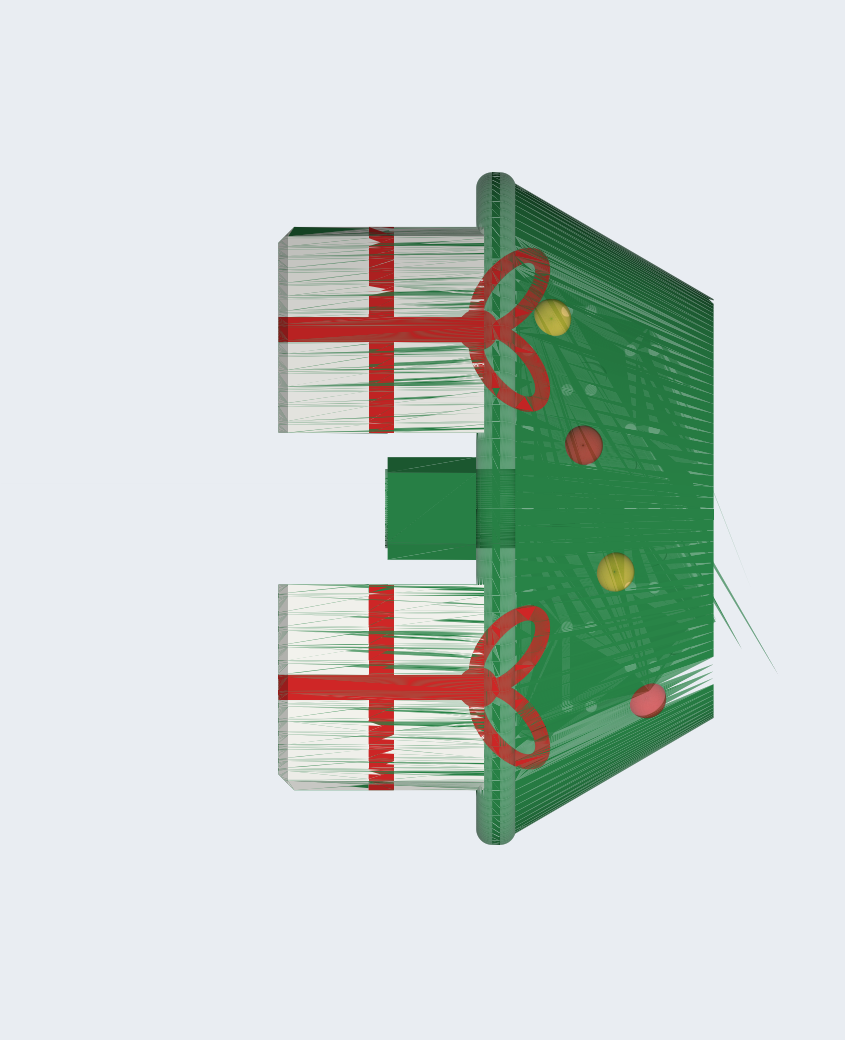
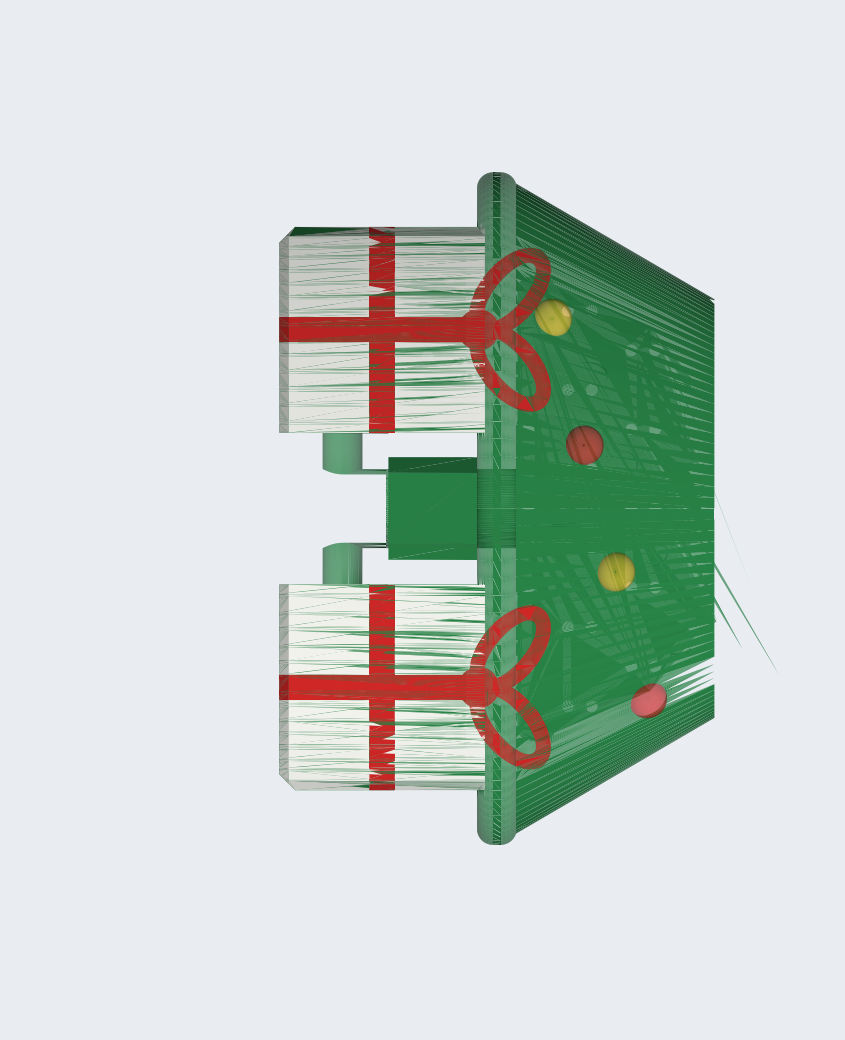
Weihnachtsbaum-Duschkopf: Modelle mit neuem Stecker aktualisiert
Modelle mit dem neu vermessenen Stecker erzeugt. Die Tropfenspitze der
Bohrung ist im Stecker gekappt, damit an der O-Ring-Nut (Ø 11,3) 1,2 mm
Wand bleiben; ein Stützen-Blocker liegt in der Bohrung. Bilder neu.

Claude-Session: https://claude.ai/code/session_01JDU9ZD8zwLBPGNtPvnxfnM

diff --git a/dusche-weihnachtsbaum/werkzeuge/erzeuge_modell.py b/dusche-weihnachtsbaum/werkzeuge/erzeuge_modell.py
@@ -452,6 +452,10 @@ def main(quelle, ziel, mit_geschenken):
         t.trimesh().export(os.path.join(ziel, f'{name}.stl' if len(teile) == 1 else f'{name}_{tn.lower()}.stl'))
     blocker.v += versatz
     teile.append(('Stuetzen-Blocker Kammer', blocker, F_GRUEN, 'support_blocker'))
+    # Bohrung: die gekappte Tropfenspitze im Stecker ist eine 1-mm-Brücke; keine Stützen in der Bohrung
+    bb = Teil(zylinder_x(X_STECKER - 31, X_STECKER, 7.6) + zylinder_x(X_STECKER, X_BOHR_ENDE, 9.6))
+    bb.v += versatz
+    teile.append(('Stuetzen-Blocker Bohrung', bb, F_GRUEN, 'support_blocker'))
     if mit_geschenken:
         gb = Teil(geschenk_blocker(wolb))
         gb.v += versatz

diff --git a/dusche-weihnachtsbaum/README.md b/dusche-weihnachtsbaum/README.md
@@ -74,7 +74,7 @@ Benötigt: OpenSCAD (getestet 2021.01), Python mit `numpy trimesh manifold3d lxm
 
 Der Baum liegt beim Drucken flach. Im Inneren gibt es zwei Stellen, an denen ein Slicer mit automatischen Stützen Überhänge findet. Dort wären Stützen nicht mehr zu entfernen. Gemessen wurde lagenweise (Schwelle 30°, 0,2 mm Lagen).
 
-- **Bohrung in Stecker, Griff und Hals:** Eine liegende runde Bohrung hat eine Decke, die oben flach ausläuft. Der Slicer wollte darin über die ganze Länge Stützen setzen. Jetzt ist die Bohrung ein **Tropfen**: Kreis plus Dach, dessen Flanken den Kreis tangential berühren, im Griff mit 40°, im Stecker mit 35° (`DACH_WINKEL` bzw. `dach_winkel` im SCAD). Damit gibt es über der Achse keine Überhänge mehr. Der Querschnitt wächst von 78,5 auf 82 mm² (Griff) bzw. von 49,5 auf 50,9 mm² (Stecker). Die Tropfenform reicht vom Steckerschaft (x = −94,5) bis zur Kammer (x = 9).
+- **Bohrung in Stecker, Griff und Hals:** Eine liegende runde Bohrung hat eine Decke, die oben flach ausläuft. Der Slicer wollte darin über die ganze Länge Stützen setzen. Jetzt ist die Bohrung ein **Tropfen**: Kreis plus Dach, dessen Flanken den Kreis tangential berühren, im Griff mit 40°, im Stecker mit 35° (`DACH_WINKEL` bzw. `dach_winkel` im SCAD). Im Stecker ist die Spitze bei r = 4,45 flach gekappt (`dach_kappe`), weil die neu vermessene O-Ring-Nut (Ø 11,3) sonst nur 0,8 mm Wand ließe; so bleiben 1,2 mm, oben eine 1 mm breite Brücke. Ein dritter Stützen-Blocker (`Stuetzen-Blocker Bohrung`) liegt in der ganzen Bohrung. Damit gibt es über der Achse keine Überhänge mehr. Der Querschnitt wächst von 78,5 auf 82 mm² (Griff) bzw. von 49,5 auf 50,9 mm² (Stecker). Die Tropfenform reicht vom Steckerschaft (x = −94,5) bis zur Kammer (x = 9).
 - **Kammer im Baum:** Die Decke ist beim Original parallel zur Außenhaut gewölbt und nur etwa 9° geneigt, am Scheitel waagrecht. Das ist für den Slicer ein Überhang, auch wenn der Entwurf bewusst ohne Stützen auskommt: 29 Pfosten (ø 1,5, Raster 8 × 10 mm, versetzt) tragen die Decke. Alle Pfosten reichen bis ins Dach, der größte Abstand eines Deckenpunkts zum nächsten Pfosten oder zur Wand ist 4,8 mm (Brücken bis etwa 10 mm). Die Kammer ist also konstruktiv in Ordnung und wurde **nicht verändert**. Neu ist ein **Stützen-Blocker** als eigenes Bauteil in der 3MF (`Stuetzen-Blocker Kammer`, Untertyp `support_blocker`, Grundfläche der Kammer von der Düsenplatte bis über die Decke). Der Slicer setzt dort keine Stützen, alle Überhänge der Kammer liegen innerhalb des Blockers (geprüft). Der Blocker wird nicht gedruckt und steckt nicht in den STLs.
 - Übrig bleiben außen liegende Überhänge, die sich entfernen lassen: der Stecker (Achse 10 mm über dem Bett) und die 11,5 mm lange Brücke unter dem Hals (Unterseite z = −8, 2,6 mm über dem Bett).
 
@@ -90,7 +90,7 @@ Der Baum liegt beim Drucken flach. Im Inneren gibt es zwei Stellen, an denen ein
 **Allgemein**
 - Die Farbbemalung des Originals wird Dreieck für Dreieck übernommen und von den Bambu-Slots 4/5/6 auf 3/2/1 umnummeriert. Verloren geht nur die Grün-Bemalung des alten eckigen Griffs.
 - Die Druckeinstellungen des Originals (Bambu X1C, 19 Filamente) sind nicht in der 3MF. Anycubic Slicer Next nimmt beim Öffnen das eigene Drucker- und Filamentprofil.
-- Das Modell ist 242,7 × 85 × 21,25 mm groß. Es passt auf 250er-Betten (Kobra 3, Kobra S1), nicht auf 220er. Der Duschkopf ist ein geschlossenes, einteiliges Netz.
+- Das Modell ist 242,9 × 85 × 21,25 mm groß. Es passt auf 250er-Betten (Kobra 3, Kobra S1), nicht auf 220er. Der Duschkopf ist ein geschlossenes, einteiliges Netz.
 
 ## Druck
 
@@ -121,4 +121,5 @@ Der Baum liegt beim Drucken flach. Im Inneren gibt es zwei Stellen, an denen ein
   - Ausrichtung auf Anycubic/ACE mit 4 Filamenten.
 - 12.11.2026, dritte Runde: Geschenke oben gewölbt wie der Baum, Außenkanten gefast; Stirnkante des Griffs 1 mm gefast.
 - 12.11.2026, vierte Runde (Innenraum): Bohrung als Tropfen (selbsttragend), Stützen-Blocker für die Kammer in der 3MF. Kammer und Pfosten unverändert (Analyse siehe Innenraum).
+- 12.11.2026, abends: Modelle mit dem neu vermessenen Stecker (Commit ed41b63) neu erzeugt; Tropfenspitze im Stecker gekappt, Blocker in der Bohrung.
 - Noch nicht gedruckt erprobt. Die Steckermaße sind die des vorhandenen Adapters, nur die Drucklage ist anders (liegend statt stehend).

diff --git a/dusche-weihnachtsbaum/agent.md b/dusche-weihnachtsbaum/agent.md
@@ -29,6 +29,7 @@ Der 1/2"-Gewindezapfen des Weihnachtsbaum-Duschkopfs wird durch den Stecker der 
   - Volumenlose Splitter entfernt `saeubern()`.
 - Innenraum (4. Runde): Der Slicer wollte in der Bohrung und in der Kammer Stützen setzen. Bohrung = Tropfen (`bohrung_dach()`, 40° im Griff; im SCAD `dach_winkel` 35° im Stecker), von x = −94,5 bis 9. Kammer des Originals unverändert (29 Pfosten ø 1,5, alle bis ins Dach, max. Abstand 4,8 mm); stattdessen `kammer_blocker()` als Bauteil mit `subtype="support_blocker"` in der 3MF (nicht in den STLs; bei Zentrierung ausgenommen, in `bilder.py` ausgeblendet). Analyse: lagenweise Überhangprüfung (Schicht für Schicht, Versatz 0,2/tan 30°). Wurde nicht im echten Anycubic Slicer geprüft.
 - Düsen in Geschenken (5. Runde, Nutzerwunsch): `geschenk_hohlraum()`/`geschenk_blocker()`, Parameter `WAND_G, DACH_G, DUESEN_X/Y, PFOSTEN_X/Y, KANAL_X`. Geprüft: Düsen durchgängig, Kanal frei. Geschenke sind jetzt wasserführend (frühere Vorgabe „nicht Teil des Wassersystems“ ersetzt). Durchflussrechnung im README.
+- Stecker neu vermessen (ed41b63): O-Ring-Nut Ø 11,3 → Tropfen im SCAD bei `dach_kappe` = 4,45 gekappt (Wand 1,2 mm). `Stuetzen-Blocker Bohrung` (Ø 7,6 im Stecker, 9,6 im Griff) in der 3MF.
 - Bemalung (paint_color) wird über `face_id` von manifold3d auf die Dreiecke des Ergebnisses übertragen.
 
 ## Offen
